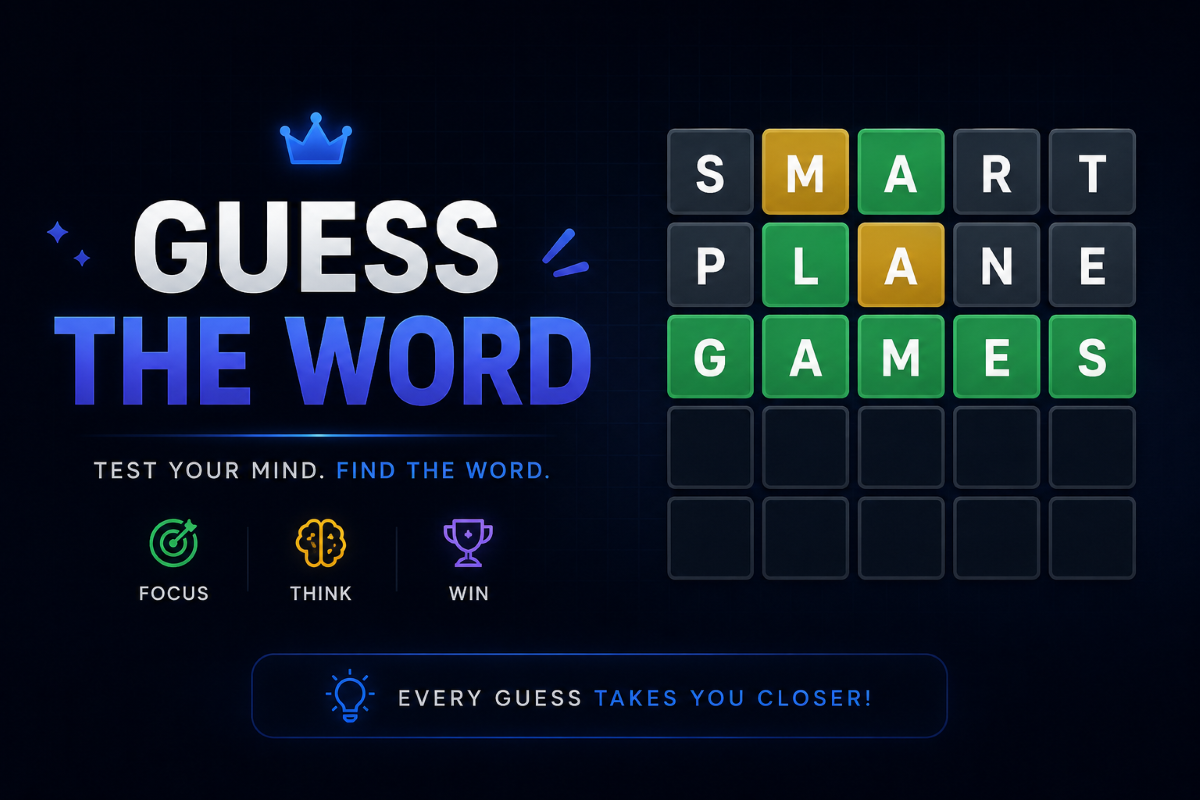
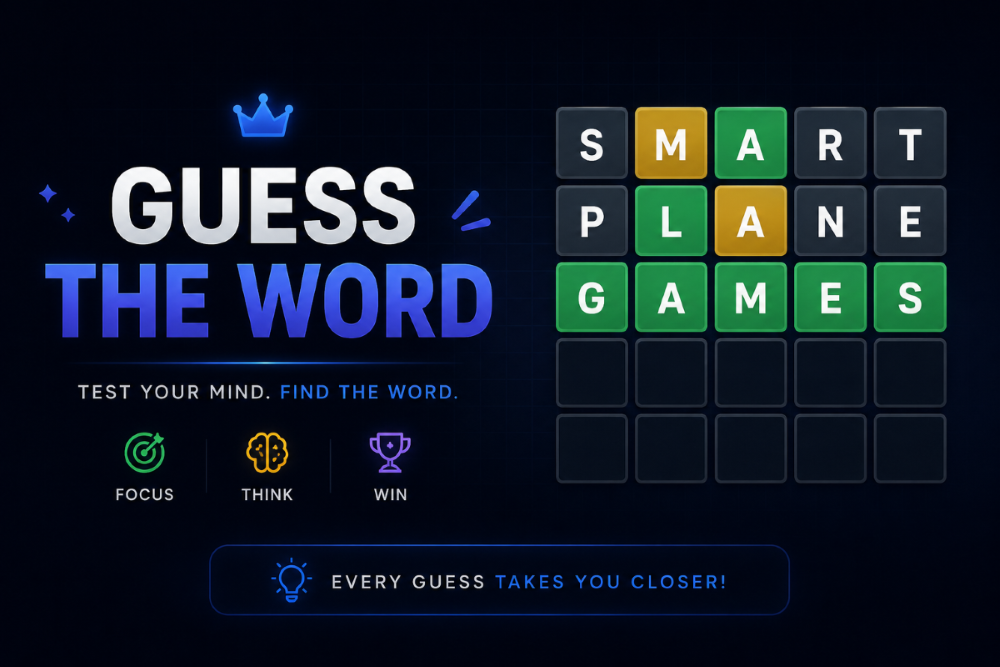
Update Words

Changed region(s): [[0.341, 0.5697, 0.372, 0.5997]]

diff --git a/main.js b/main.js
@@ -14,10 +14,58 @@ const words = [
   "Master",
   "Branch",
   "Mainly",
-  "Radwan",
   "Finish",
   "Art",
-  "Eslam",
+  "hat",
+  "key",
+  "box",
+  "ice",
+  "book",
+  "tree",
+  "fish",
+  "bird",
+  "milk",
+  "moon",
+  "apple",
+  "grape",
+  "house",
+  "chair",
+  "table",
+  "phone",
+  "water",
+  "light",
+  "smile",
+  "bread",
+  "clock",
+  "train",
+  "plane",
+  "beach",
+  "river",
+  "music",
+  "heart",
+  "dream",
+  "green",
+  "black",
+  "orange",
+  "yellow",
+  "purple",
+  "silver",
+  "golden",
+  "window",
+  "garden",
+  "school",
+  "animal",
+  "friend",
+  "family",
+  "market",
+  "summer",
+  "winter",
+  "spring",
+  "coffee",
+  "butter",
+  "cookie",
+  "basket",
+  "forest",
 ];
 wordToGuess = words[Math.floor(Math.random() * words.length)].toLowerCase();
 const messageArea = document.querySelector(".message");
@@ -84,7 +132,7 @@ function generateInputs() {
       if (event.key === "Backspace") {
         const prevIndex = currentIndex - 1;
         inputs[currentIndex].value = "";
-        inputs[prevIndex].value = "";
+        if (!inputs[prevIndex].disabled) inputs[prevIndex].value = "";
         inputs[prevIndex].focus();
       }
       if (event.key === "Enter") {